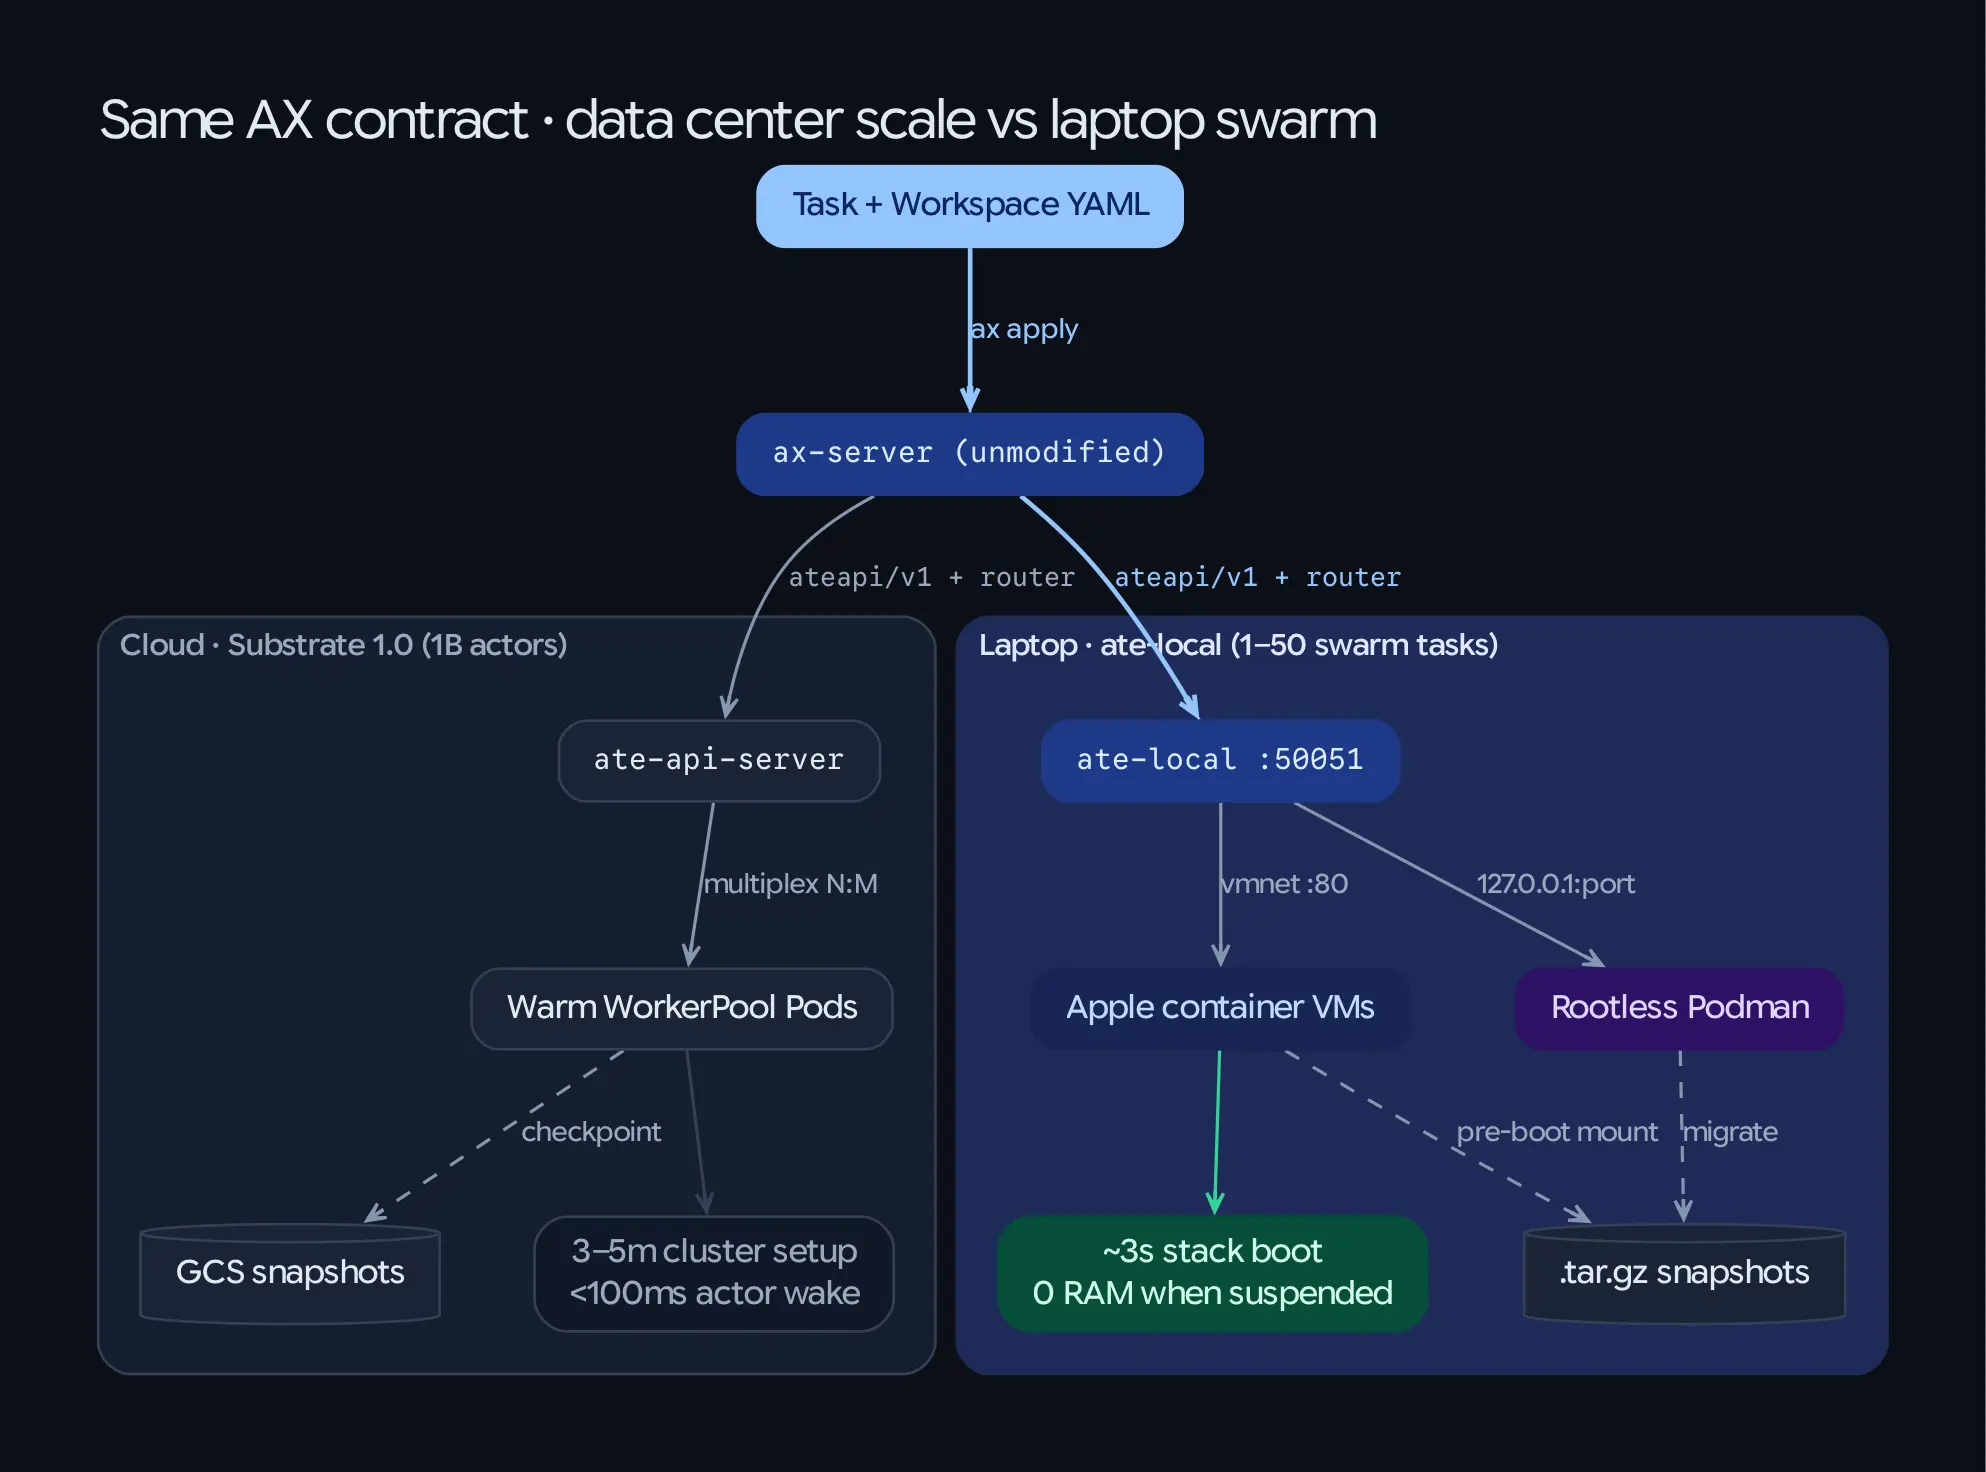
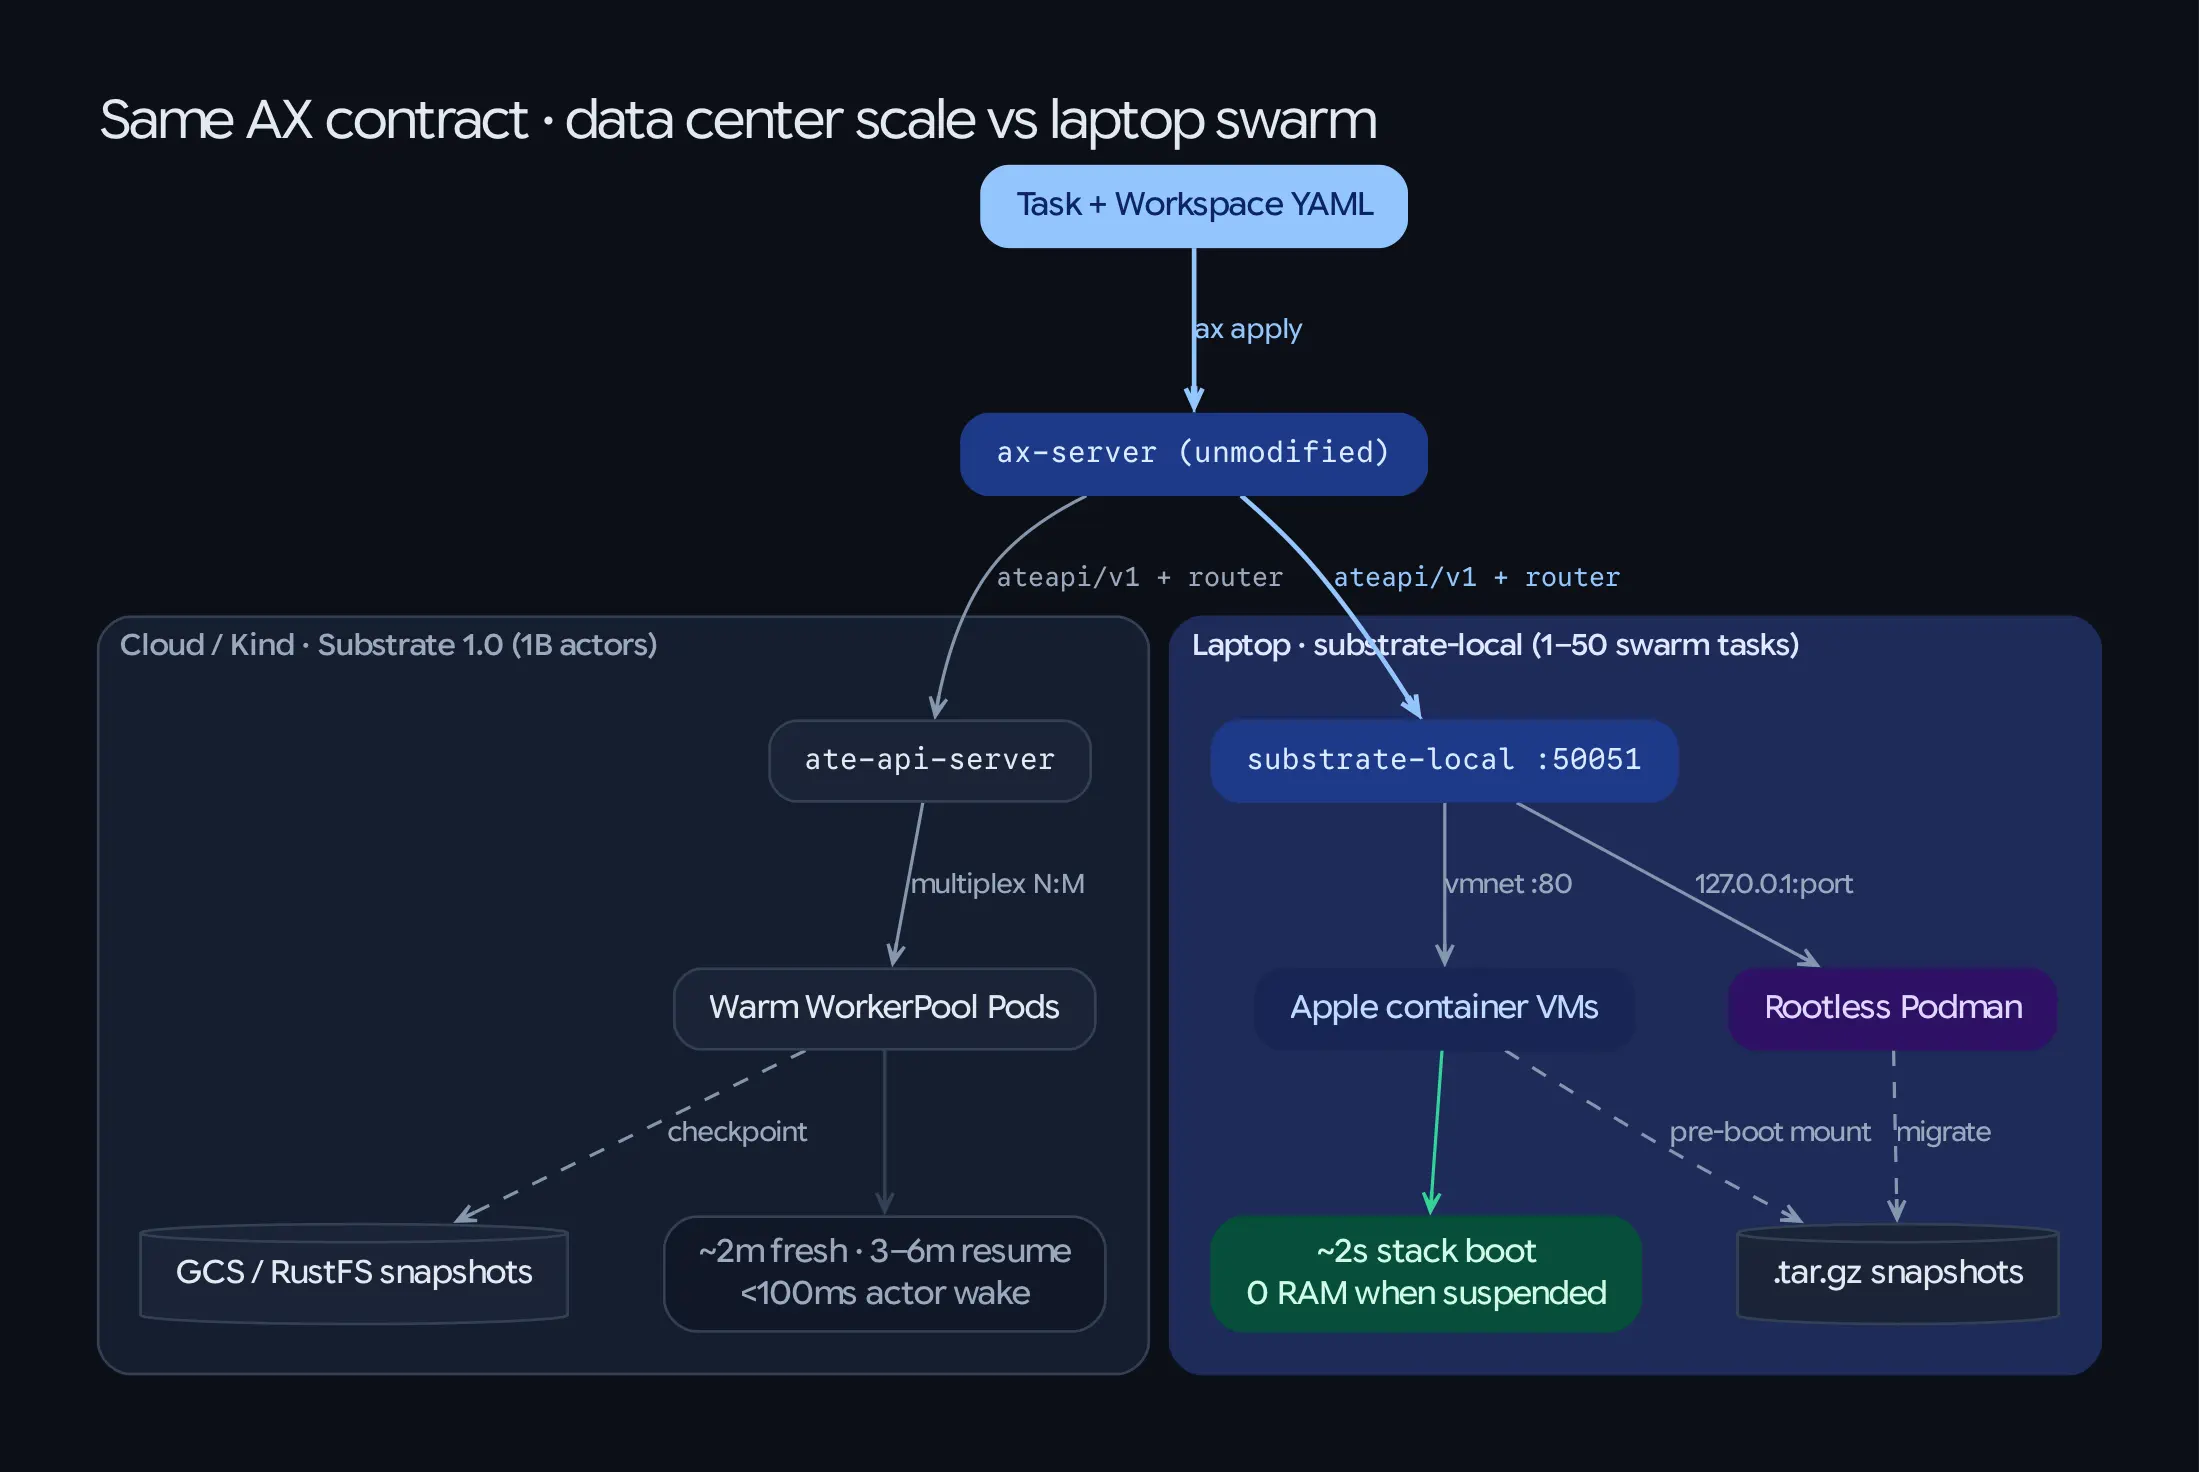
docs(sweep): point docs & Lustrous diagrams to standalone substrate-local and agentexecutor/studio (ax-experiments-1rx.9)
- Update concepts/diagrams/01-two-plane-architecture.dot & 04-datacenter-vs-laptop.dot
  (+ re-render light/dark WebP via lustrous.gvpr) for substrate-local :50051,
  measured M5 Kind timings, and AX CLI / Studio / Central.
- Document ate-local graduation to standalone github.com/ghchinoy/substrate-local
  and cite official github.com/agentexecutor/studio in ate-local/, concepts/03-04,
  hero-demo/README.md, and README.md.

diff --git a/concepts/03-datacenter-to-laptop.md b/concepts/03-datacenter-to-laptop.md
@@ -20,7 +20,7 @@ On a single developer's laptop (`ax local start` on Kind, `#603`), that same sta
 - Takes **~2 minutes (128–129 s measured on Apple M5, and 3–5 minutes in [`google/ax#689`](https://github.com/google/ax/issues/689))** on a fresh start while 12+ control-plane and worker Pods converge sequentially—and **170–362 s** on `stop` $\rightarrow$ `start` while pod-certificate volumes wait out kubelet mount backoff (see step-by-step breakdown in [`ate-local/LOCAL-BACKEND.md`](../ate-local/LOCAL-BACKEND.md));
 - Keeps `WorkerPool` Pods idling in VM memory even when no tasks are running.
 
-By contrast, on Apple Silicon macOS, **`Virtualization.framework` (`Apple container`) *is* already a sub-second microVM hypervisor**. Implementing Substrate's `ateapi/v1.ControlServer` + `atenet-router` (`h2c`) directly against `Apple container` and rootless `podman` (`ate-local`, [`google/ax#602`](https://github.com/google/ax/issues/602)) boots the entire AX stack in **~3 seconds** while running **100% unmodified `ax` and `ax-server`**.
+By contrast, on Apple Silicon macOS, **`Virtualization.framework` (`Apple container`) *is* already a sub-second microVM hypervisor**. Implementing Substrate's `ateapi/v1.ControlServer` + `atenet-router` (`h2c`) directly against `Apple container` and rootless `podman`—prototyped as `ate-local` ([`google/ax#602`](https://github.com/google/ax/issues/602)) and now graduated into standalone **[`ghchinoy/substrate-local`](https://github.com/ghchinoy/substrate-local)**—boots the entire AX stack in **~2 seconds** while running **100% unmodified upstream `google/ax` binaries** (`ax` and `ax-server`) with zero fork rebases.
 
 ---
 
@@ -53,7 +53,7 @@ Even with **1 human tenant** on a laptop, multi-agent workflows (`swarm/03-seed-
    - *Gap:* In `ate-local` v1, `EgressPolicy` RPCs are stored for API parity, but local tasks typically receive `GEMINI_API_KEY` via `spec.env` rather than an outbound TLS-intercepting proxy. In production Substrate, secrets *never* enter `spec.env` (`atenet-egress` swaps placeholder headers outside the sandbox).
    - *Future local option:* A ~150-line optional Go HTTP/CONNECT proxy in `ate-local` reading `EgressPolicy` + macOS Keychain/env secrets would give local developers 100% `Gateway` credential-injection parity too.
 2. **Stateful Cross-Cluster `/workspace` Migration (`Move Task` vs. Spec-Only `ax promote` `#694`):**
-   - *Divergence:* Upstream chose to keep `ax promote` (`#618`, `#694`) strictly spec-only (no `/workspace` file transfer). For developer inner-loop $\rightarrow$ cloud workflows, streaming uncommitted `/workspace` edits across clusters (`AX Central`'s `Move Task` over dual `ax ssh` pipes) remains a high-value Studio/desktop capability layered cleanly *above* AX without needing core changes.
+   - *Divergence:* Upstream chose to keep `ax promote` (`#618`, `#694`) strictly spec-only (no `/workspace` file transfer), and official single-cluster [`agentexecutor/studio`](https://github.com/agentexecutor/studio) (`ax studio`) explicitly focuses on a single local Kind cluster (`#28`). For developer inner-loop $\rightarrow$ cloud workflows, streaming uncommitted `/workspace` edits across clusters (`AX Central`'s `Move Task` over dual `ax ssh` pipes) remains a high-value multi-cluster capability layered cleanly *above* AX without needing core changes.
 
 ---
 

diff --git a/hero-demo/README.md b/hero-demo/README.md
@@ -5,7 +5,7 @@
 Upstream [`google/ax/hack/hero-demo/run.sh`](https://github.com/google/ax/pull/590) defines the five-step **AX v0.1 Hero Demo** scoreboard, where four steps remain `🟡 STUB`s on upstream `main` while local mode (`#526`/`#602`), warm workspace snapshots (`#584`), multi-turn starter sessions, and automatic `ax-task-runner` injection land.
 
 This directory executes **all 5 steps live end-to-end (`5/5 🟢 PASS`)** by combining:
-- **`ate-local`** ([`ghchinoy/ax:feat/ate-local-apple-container`](https://github.com/ghchinoy/ax/tree/feat/ate-local-apple-container), [`google/ax#602`](https://github.com/google/ax/issues/602)) with pre-boot warm `Tag` snapshot hydration, embedded `atenet-router`, automatic `/usr/local/bin/ax-task-runner` injection on stock images, and dual-cluster `Apple container` $\leftrightarrow$ `Podman` promotion;
+- **[`ghchinoy/substrate-local`](https://github.com/ghchinoy/substrate-local)** (graduated from [`ate-local`](/ate-local/README.md), [`google/ax#602`](https://github.com/google/ax/issues/602)) with pre-boot warm `Tag` snapshot hydration, embedded `atenet-router`, automatic `/usr/local/bin/ax-runner` injection on stock images, and dual-cluster `Apple container` $\leftrightarrow$ `Podman` promotion against **unmodified upstream `google/ax`**;
 - **[`ghcr.io/ghchinoy/ax-images/genkit-runner`](https://github.com/ghchinoy/ax-images)** (`v0.3.0`, multi-arch `@sha256:` pinned) with persistent `/workspace/.genkit/snapshots` multi-turn sessions across `ax suspend` and `ax resume`; and
 - **[`AX Central`](https://github.com/ghchinoy/ax-central)** (`~/projects/ax-central`) desktop control plane.
 
@@ -24,7 +24,7 @@ By default, `run-live.sh` spins up an **isolated dual-cluster stack** (`Cluster 
 
 ```bash
 ./hero-demo/run-live.sh                           # Isolated 5/5 live run (default)
-./hero-demo/run-live.sh --attach                  # Run against active local-stack.sh multi-up (:8090 / :8091)
+./hero-demo/run-live.sh --attach                  # Run against active substrate-local ax-stack.sh multi-up (:8090 / :8091)
 ./hero-demo/run-live.sh --step 4                  # Run a single step
 ./hero-demo/run-live.sh --remote-context <ctx>    # Promote Step 5 to a Kubernetes Kind/GKE context
 ./hero-demo/run-live.sh --keep-stack              # Leave isolated dual-cluster stack up for inspection

diff --git a/concepts/04-from-orchestrator-to-platform.md b/concepts/04-from-orchestrator-to-platform.md
@@ -15,7 +15,7 @@ The shortest way to separate the layers is by **where they meet—and where they
 
 1. **Agent Substrate 1.0 (Compute Runtime):** Schedules untrusted sandboxes (`Actor`s) onto pre-warmed `WorkerPool` Pods from immutable container classes (`ActorTemplate`s), restores them in `<100 ms`, suspends/resumes and checkpoints them (`Tag`s), routes inbound HTTP/gRPC traffic by logical ID (`atenet-router`), mediates outbound network access and secret header injection (`atenet-egress`), and will allow finished actors to self-suspend (`agent-substrate/substrate#483`). It deliberately knows *almost nothing* about agents.
 2. **AX Control Plane (Pure Declarative Control):** Intersects Substrate *only* at task execution (`1 Task = 1 Actor`), managing declarative specs (`Task`, `Workspace`, `Model`, `Gateway`), `TaskManager` (`#730`), router-only task push (`--router-url`, `#700`/`#757`), runner/launcher contracts (`ax-runner` / `ax-launcher` `#734`, `$AX_WORKSPACE` `#723`), and control-plane `TaskState` (`QUEUED` + live `ActorState` + `Ready` conditions)—with **zero data-plane polling** (`#756`).
-3. **External Orchestrator & Agentic Platform:** Owns everything above raw execution—task outcomes, completion/retry policy, suspend/resume scheduling, sessions, memory, multi-task coordination, input steering, registries, models, and trajectory collection (`#724`, `#732`, `#756`). Keeping the control plane narrow is what lets AX stay portable across Google-internal infrastructure, customer Kubernetes clusters, on-prem environments, and zero-Kubernetes local runtimes (`ate-local`, `#712`).
+3. **External Orchestrator & Agentic Platform:** Owns everything above raw execution—task outcomes, completion/retry policy, suspend/resume scheduling, sessions, memory, multi-task coordination, input steering, registries, models, and trajectory collection (`#724`, `#732`, `#756`). Keeping the control plane narrow lets AX stay portable across Google-internal infrastructure, customer Kubernetes clusters, on-prem environments, official single-cluster [`agentexecutor/studio`](https://github.com/agentexecutor/studio), and zero-Kubernetes local runtimes ([`ghchinoy/substrate-local`](https://github.com/ghchinoy/substrate-local), `#712`).
 
 ### Responsibility Matrix
 

diff --git a/ate-local/README.md b/ate-local/README.md
@@ -1,6 +1,8 @@
 # `ate-local`: Local Agent Substrate on Apple Container & Podman
 
-> **OKF v0.2 Track Metadata & Lineage**: [`okf/ate-local.md`](../okf/ate-local.md) · **Bundle Index**: [`okf/index.md`](../okf/index.md)
+> **OKF v0.2 Track Metadata & Lineage**: [`okf/ate-local.md`](../okf/ate-local.md) · **Graduated Standalone Repo**: [`ghchinoy/substrate-local`](https://github.com/ghchinoy/substrate-local) ([`okf/substrate-local.md`](../okf/substrate-local.md)) · **Bundle Index**: [`okf/index.md`](../okf/index.md)
+
+> **Graduated to [`ghchinoy/substrate-local`](https://github.com/ghchinoy/substrate-local):** The `ate-local` daemon now lives in its own standalone repository (`~/projects/substrate-local`, depending only on `go.ate.dev/substrate v1.0.0`), so **unmodified upstream `google/ax`** binaries run on Apple `container` and rootless Podman in ~2 seconds with zero fork-rebase churn. `make stack-up` in this repo prefers `~/projects/substrate-local/scripts/ax-stack.sh` automatically.
 
 This experiment track prototypes and benchmarks **`ate-local`** ([`google/ax#602`](https://github.com/google/ax/issues/602)), a lightweight Go control and data plane implementing the **Agent Substrate Control gRPC API** (`go.ate.dev/substrate/api/ateapi/v1.ControlServer`, `v1.0.0`) plus an embedded **`atenet-router`** (`ate-target-actor` HTTP/1.1 + HTTP/2 `h2c` reverse proxy with wake-on-request), backed by either macOS's native **Apple `container`** runtime (`/usr/local/bin/container`) or **Podman** (`podman`).
 

diff --git a/README.md b/README.md
@@ -75,9 +75,9 @@ To run the swarm recipes (`swarm/01..08`), the Genkit microVM runner (`genkit/ru
    - **Go 1.26+**
    - **`GEMINI_API_KEY`** exported in your shell *(only required for AI swarm recipes `04`, `05`, `06` and `genkit/run-apple-container.sh`)*
 
-2. **Start the local AX stack** from [`ghchinoy/ax`](https://github.com/ghchinoy/ax) (`feat/ate-local-apple-container` branch):
+2. **Start the local AX stack** using standalone [`ghchinoy/substrate-local`](https://github.com/ghchinoy/substrate-local) (runs unmodified upstream `google/ax` on Apple `container` and rootless Podman):
    ```bash
-   git clone -b feat/ate-local-apple-container https://github.com/ghchinoy/ax.git ~/projects/ax
+   git clone https://github.com/ghchinoy/substrate-local.git ~/projects/substrate-local
    cd ~/projects/ax-experiments
    make stack-up
    ```
@@ -190,7 +190,7 @@ AX_LOCAL_POSTGRES_PORT=5441 \
 AX_LOCAL_SUBSTRATE_PORT=50061 \
 AX_LOCAL_SERVER_PORT=8096 \
 AX_LOCAL_POSTGRES_NAME=ax-exp-postgres \
-~/projects/ax/examples/ate_local/local-stack.sh up
+~/projects/substrate-local/scripts/ax-stack.sh up
 ```
 
 ### Verification Gates

diff --git a/ate-local/LOCAL-BACKEND.md b/ate-local/LOCAL-BACKEND.md
@@ -215,6 +215,8 @@ Implemented in [`ghchinoy/ax:feat/local-backend-atelocal`](https://github.com/gh
 | `delete` | 11.2 s | **5.43 s** | ~2× |
 | Zero-env-var `apply` $\rightarrow$ `resume` $\rightarrow$ `ax ssh` | Works via kube context | **Works via `$AX_HOME/endpoints/`** (`Linux aarch64`) | Parity |
 
+> **Standalone Graduation Note:** Since this benchmark, the `ate-local` daemon graduated out of the `ghchinoy/ax` fork into standalone **[`ghchinoy/substrate-local`](https://github.com/ghchinoy/substrate-local)** (`~/projects/substrate-local`, depending only on `go.ate.dev/substrate v1.0.0`), so unmodified upstream `google/ax` binaries run against it via `scripts/ax-stack.sh` with zero fork-rebase churn.
+
 ## Reproduce
 
 ```bash
